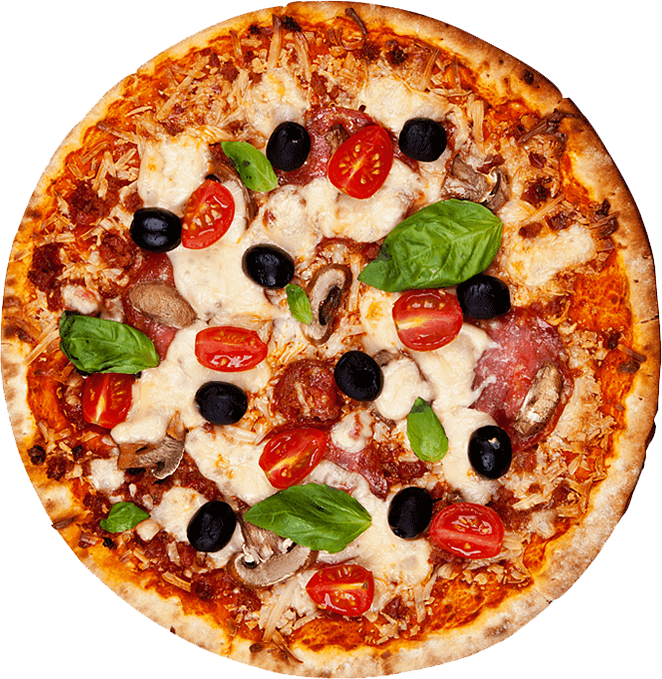
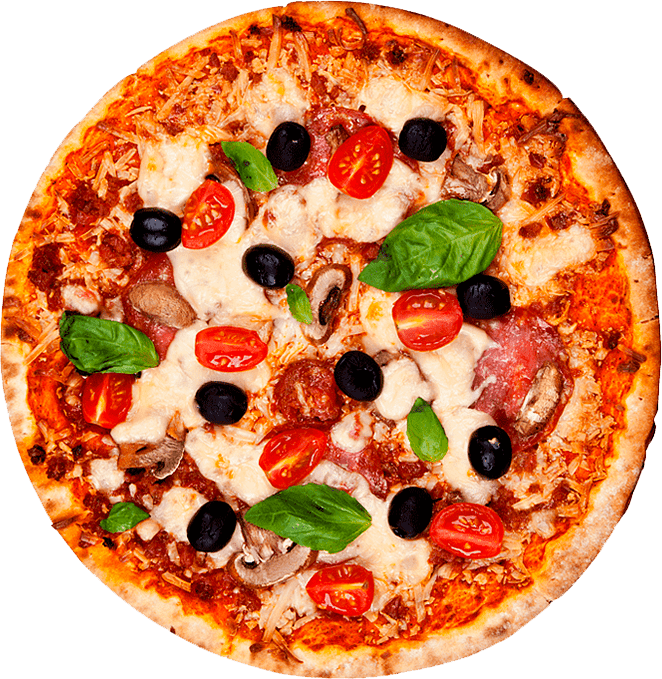
fix:compress images

Changed region(s): [[0.0, 0.0, 0.997, 1.0], [0.4532, 0.9897, 0.5136, 1.0]]

diff --git a/app/cart/page.tsx b/app/cart/page.tsx
@@ -2,72 +2,74 @@ import Image from 'next/image'
 
 const CartPage = () => {
   return (
-    <main className='h-[calc(100vh-6rem)] md:h-[calc(100vh-9rem)] flex flex-col text-primary'>
+    <main className='h-[calc(100vh-6rem)] md:h-[calc(100vh-9rem)] flex flex-col lg:flex-row text-primary'>
       {/* PRODUCT CONTAINER */}
-      <section className='h-1/2 p-2 sm:p-4 flex flex-col  overflow-scroll bg-white'>
+      <section className='h-1/2 lg:h-full p-2 lg:p-4 gap-4 sm:p-4 flex lg:w-2/3 lg:justify-center flex-col  overflow-scroll bg-white'>
+
 
         {/* SINGLE ITEM */}
-        <div className='object-contain relative flex items-center justify-between mb-4'>
-          <Image src='/products/pizza/p1.png' alt='' width={100} height={100} />
-          <div className='flex flex-col  gap-1 sm:flex-row sm:justify-around sm:flex-1 sm:items-center '>
-             <div>
-
-            <h1 className='text-xl uppercase font-bold'>Гвантанамера</h1>
-            <span className='text-secondary'>Большая</span>
-             </div>
+        <div className='flex items-center justify-between mb-4'>
+          <div className='relative object-contain h-28 w-28 2xl:h-36 2xl:w-36'>
+            <Image src='/products/pizza/p1.png' alt='' fill sizes='20vw' />
+          </div>
+          <div className='flex flex-col  gap-1 sm:flex-row sm:justify-around sm:flex-1 sm:items-center text-lg md:text-xl 2xl:text-3xl'>
+            <div>
+              <h1 className='uppercase font-bold'>Гвантанамера</h1>
+              <span className='text-secondary text-sm md:text-lg  2xl:text-xl'>Большая</span>
+            </div>
             <h2 className='font-bold '>₽ 556</h2>
           </div>
-          <button className='font-bold border p-1 rounded-full px-3 '>X</button>
+          <button className='center  rounded-full w-6 h-6 md:w-8 md:h-8 lg:w-10 lg:h-10 2xl:w-12 2xl:h-12 text-sm md:text-lg 2xl:text-3xl'>&#128473;</button>
+        </div>
+        {/* SINGLE ITEM */}
+        <div className='flex items-center justify-between mb-4'>
+          <div className='relative object-contain h-28 w-28 2xl:h-36 2xl:w-36'>
+            <Image src='/products/pizza/p1.png' alt='' fill sizes='20vw' />
+          </div>
+          <div className='flex flex-col  gap-1 sm:flex-row sm:justify-around sm:flex-1 sm:items-center text-lg md:text-xl 2xl:text-3xl'>
+            <div>
+              <h1 className='uppercase font-bold'>Гвантанамера</h1>
+              <span className='text-secondary text-sm md:text-lg  2xl:text-xl'>Большая</span>
+            </div>
+            <h2 className='font-bold '>₽ 556</h2>
+          </div>
+          <button className='center  rounded-full w-6 h-6 md:w-8 md:h-8 lg:w-10 lg:h-10 2xl:w-12 2xl:h-12 text-sm md:text-lg 2xl:text-3xl'>&#128473;</button>
         </div>
 
         {/* SINGLE ITEM */}
-        <div className='object-contain relative flex items-center justify-between mb-4'>
-          <Image src='/products/pizza/p1.png' alt='' width={100} height={100} />
-          <div className='flex flex-col  gap-1 sm:flex-row sm:justify-around sm:flex-1 sm:items-center '>
-             <div>
-
-            <h1 className='text-xl uppercase font-bold'>Гвантанамера</h1>
-            <span className='text-secondary'>Большая</span>
-             </div>
+        <div className='flex items-center justify-between mb-4'>
+          <div className='relative object-contain h-28 w-28 2xl:h-36 2xl:w-36'>
+            <Image src='/products/pizza/p1.png' alt='' fill sizes='20vw' />
+          </div>
+          <div className='flex flex-col  gap-1 sm:flex-row sm:justify-around sm:flex-1 sm:items-center text-lg md:text-xl 2xl:text-3xl'>
+            <div>
+              <h1 className='uppercase font-bold'>Гвантанамера</h1>
+              <span className='text-secondary text-sm md:text-lg  2xl:text-xl'>Большая</span>
+            </div>
             <h2 className='font-bold '>₽ 556</h2>
           </div>
-          <button className='font-bold border p-1 rounded-full px-3 '>X</button>
+          <button className='center  rounded-full w-6 h-6 md:w-8 md:h-8 lg:w-10 lg:h-10 2xl:w-12 2xl:h-12 text-sm md:text-lg 2xl:text-3xl'>&#128473;</button>
         </div>
 
         {/* SINGLE ITEM */}
-        <div className='object-contain relative flex items-center justify-between mb-4'>
-          <Image src='/products/pizza/p1.png' alt='' width={100} height={100} />
-          <div className='flex flex-col  gap-1 sm:flex-row sm:justify-around sm:flex-1 sm:items-center '>
-             <div>
-
-            <h1 className='text-xl uppercase font-bold'>Гвантанамера</h1>
-            <span className='text-secondary'>Большая</span>
-             </div>
+        <div className='flex items-center justify-between mb-4'>
+          <div className='relative object-contain h-28 w-28 2xl:h-36 2xl:w-36'>
+            <Image src='/products/pizza/p1.png' alt='' fill sizes='20vw' />
+          </div>
+          <div className='flex flex-col  gap-1 sm:flex-row sm:justify-around sm:flex-1 sm:items-center text-lg md:text-xl 2xl:text-3xl'>
+            <div>
+              <h1 className='uppercase font-bold'>Гвантанамера</h1>
+              <span className='text-secondary text-sm md:text-lg  2xl:text-xl'>Большая</span>
+            </div>
             <h2 className='font-bold '>₽ 556</h2>
           </div>
-          <button className='font-bold border p-1 rounded-full px-3 '>X</button>
+          <button className='center  rounded-full w-6 h-6 md:w-8 md:h-8 lg:w-10 lg:h-10 2xl:w-12 2xl:h-12 text-sm md:text-lg 2xl:text-3xl'>&#128473;</button>
         </div>
-
-        {/* SINGLE ITEM */}
-        <div className='object-contain relative flex items-center justify-between mb-4'>
-          <Image src='/products/pizza/p1.png' alt='' width={100} height={100} />
-          <div className='flex flex-col  gap-1 sm:flex-row sm:justify-around sm:flex-1 sm:items-center '>
-             <div>
-
-            <h1 className='text-xl uppercase font-bold'>Гвантанамера</h1>
-            <span className='text-secondary'>Большая</span>
-             </div>
-            <h2 className='font-bold '>₽ 556</h2>
-          </div>
-          <button className='font-bold border p-1 rounded-full px-3 '>X</button>
-        </div>
-
-     
 
 
       </section>
       {/* PAYMENT CONTAINER */}
-      <section className='h-1/2 p-4 bg-gray flex flex-col gap-4 justify-center text-primary'>
+      <section className='h-1/2 lg:h-full lg:flex-1 p-4 lg:p-6 bg-gray flex flex-col gap-4 md:gap-8 lg:gap-10 justify-center text-primary md:text-xl 2xl:text-2xl'>
         <div className='flex justify-between'>
           <span className=''>Всего: (3 товара)</span>
           <span className=''>₽ 1888</span>
@@ -83,7 +85,11 @@ const CartPage = () => {
           <span className='text-green uppercase'>Бесплатно</span>
         </div>
         <hr className='' />
-        <button className='bg-secondary p-3 rounded-md w-1/2 text-white'>Заказать</button>
+        <div className='flex justify-between text-xl xl:text-2xl 2xl:text-3xl font-bold mt-2'>
+          <span className=''>Итого:</span>
+          <span className=''>₽ 1888</span>
+        </div>
+        <button className='bg-secondary p-3 mt-2 rounded-md w-1/2 md:w-1/3 lg:w-1/2 text-white 2xl:text-3xl 2xl:p-4'>Заказать</button>
       </section>
     </main>
   )

diff --git a/app/login/page.tsx b/app/login/page.tsx
@@ -1,8 +1,23 @@
-import React from 'react'
+import Image from 'next/image'
+
 
 const LoginPage = () => {
   return (
-    <div>LoginPage</div>
+    <main className='h-[calc(100vh-6rem)] md:h-[calc(100vh-9rem)] center'>
+      {/* BOX */}
+      <div className='h-full w-full shadow-2xl rounded-md flex flex-col md:flex-row'>
+        {/* IMAGE CONTAINER */} 
+        <div className='relative h-1/3 w-full'>
+          <Image src='/login/login.jpg' alt='login' fill sizes='(min-width: 600px) 33vw' className='object-cover'/>
+        </div>
+        
+        {/* FORM CONTAINER */}
+        <div className='p-10 flex flex-col gap-8'>
+          <h1 className='font-bold '>Приветствуем!!</h1>
+          <p>Войдите в свой аккаунт или создайте новый</p>
+        </div>
+      </div>
+    </main>
   )
 }
 
